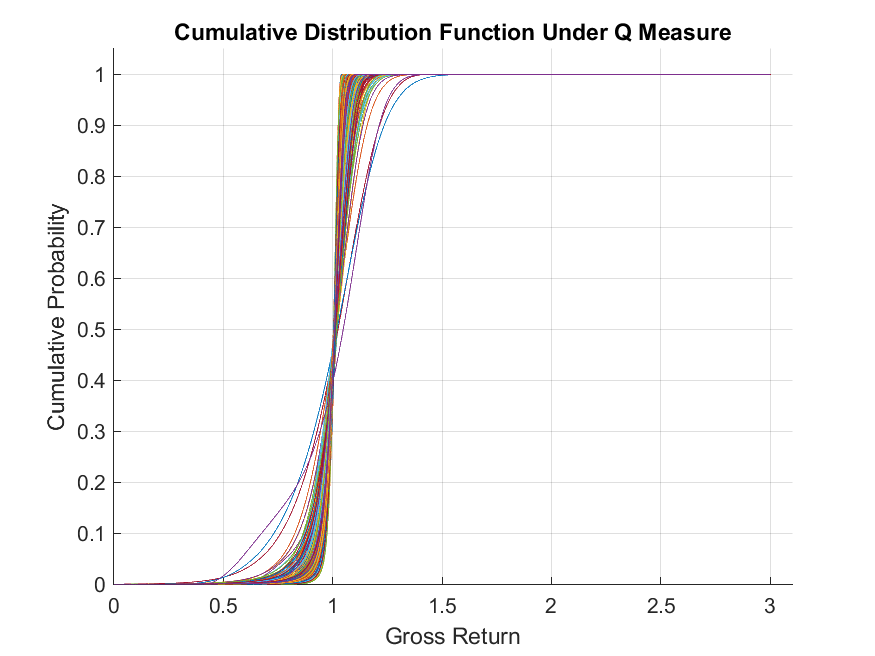
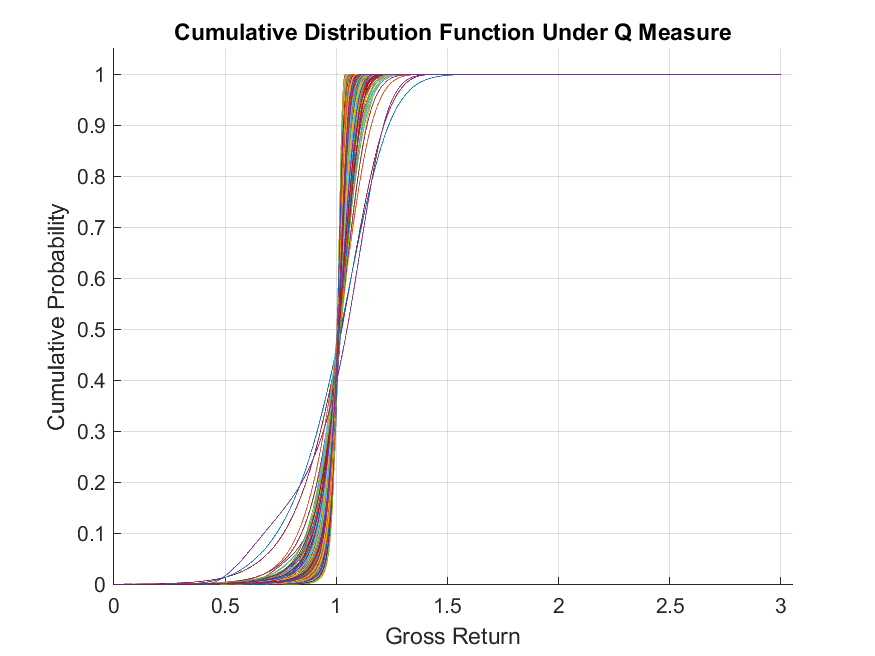
Refined Visualization and Adjusted Plot Ranges for Re-rendered Density and CDF Plots

diff --git a/06  物理測度機率密度函數/Procedure__Plot_Density.m b/06  物理測度機率密度函數/Procedure__Plot_Density.m
@@ -62,7 +62,7 @@ title('Probability Density Function Under Q Measure');
 xlabel('Gross Return');
 ylabel('Probability Density');
     
-xlim([0, 3.1]);
+xlim([0, 3.05]);
 
 filename = 'Q_Measure_PDF.png';
 saveas(gcf, fullfile(Path_Output, filename));
@@ -93,8 +93,7 @@ for idx_b = 1:length(b_values)
     xlabel('Gross Return');
     ylabel('Probability Density');
 
-    xlim([0, 3.1]);
-    ylim([0, 25]);
+    xlim([0, 3.05]);
 
 end
 
@@ -127,7 +126,7 @@ hold off;
 title('Cumulative Distribution Function Under Q Measure');
 xlabel('Gross Return');
 ylabel('Cumulative Probability');
-xlim([0, 3.1]);
+xlim([0, 3.05]);
 ylim([0, 1.05]);
 
 filename = 'Q_Measure_CDF.png';
@@ -163,7 +162,7 @@ for idx_b = 1:length(b_values)
     xlabel('Gross Return');
     ylabel('Cumulative Probability');
 
-    xlim([0, 3.1]);
+    xlim([0, 3.05]);
     ylim([0, 1.05]);
 
 end
